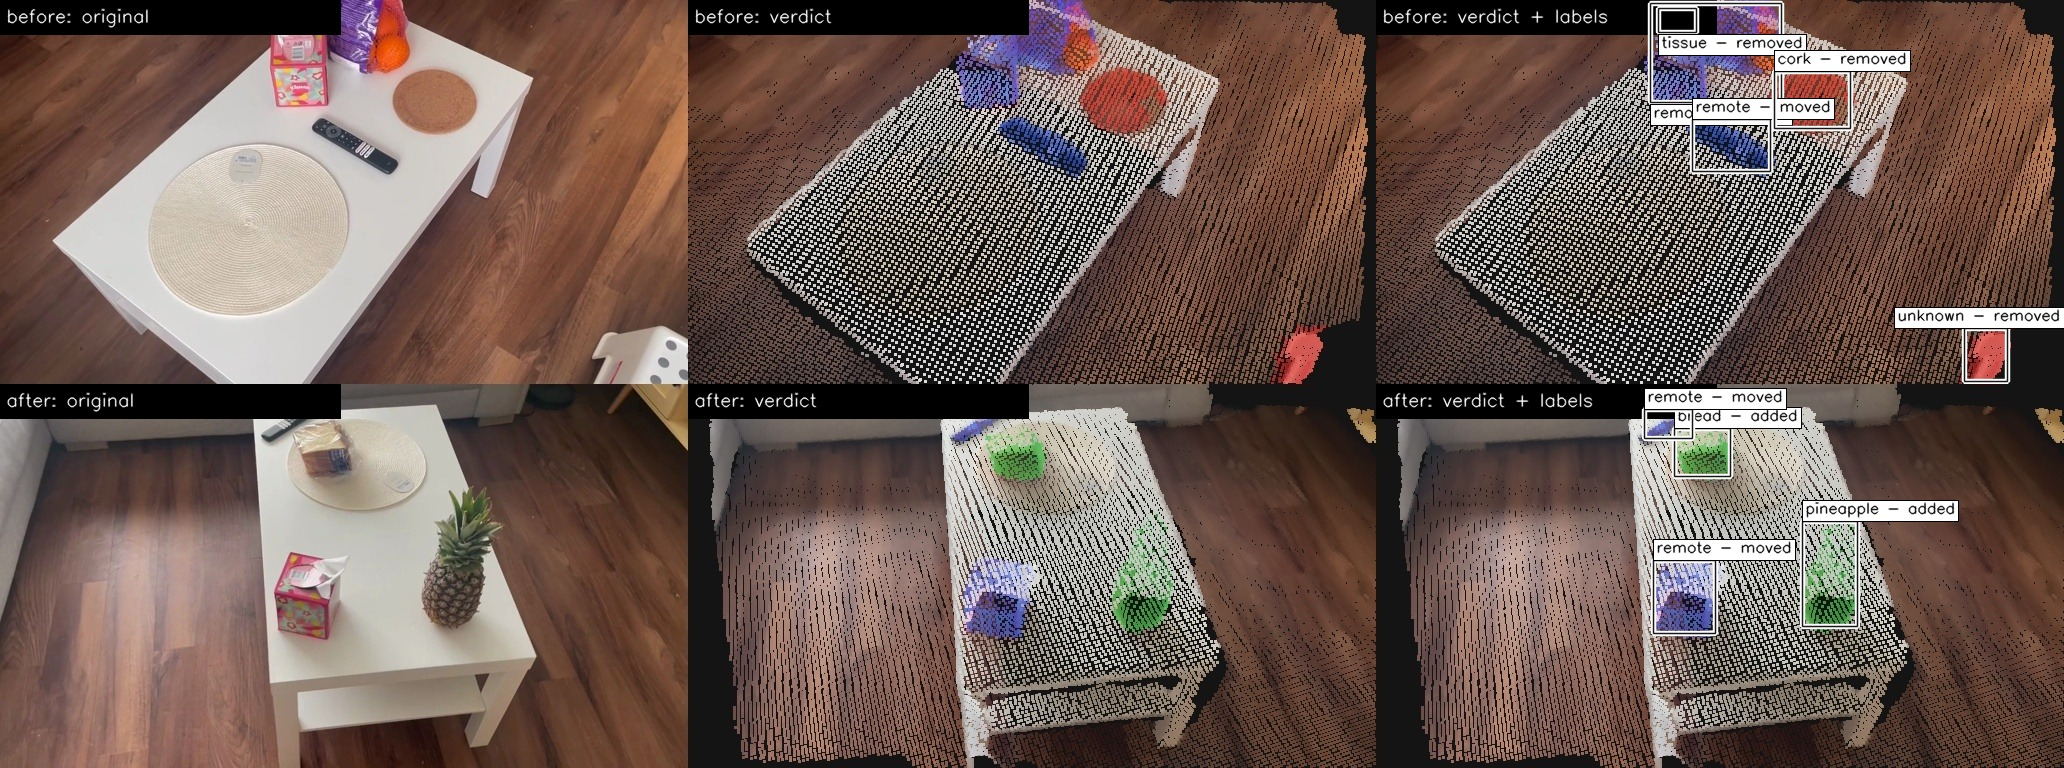
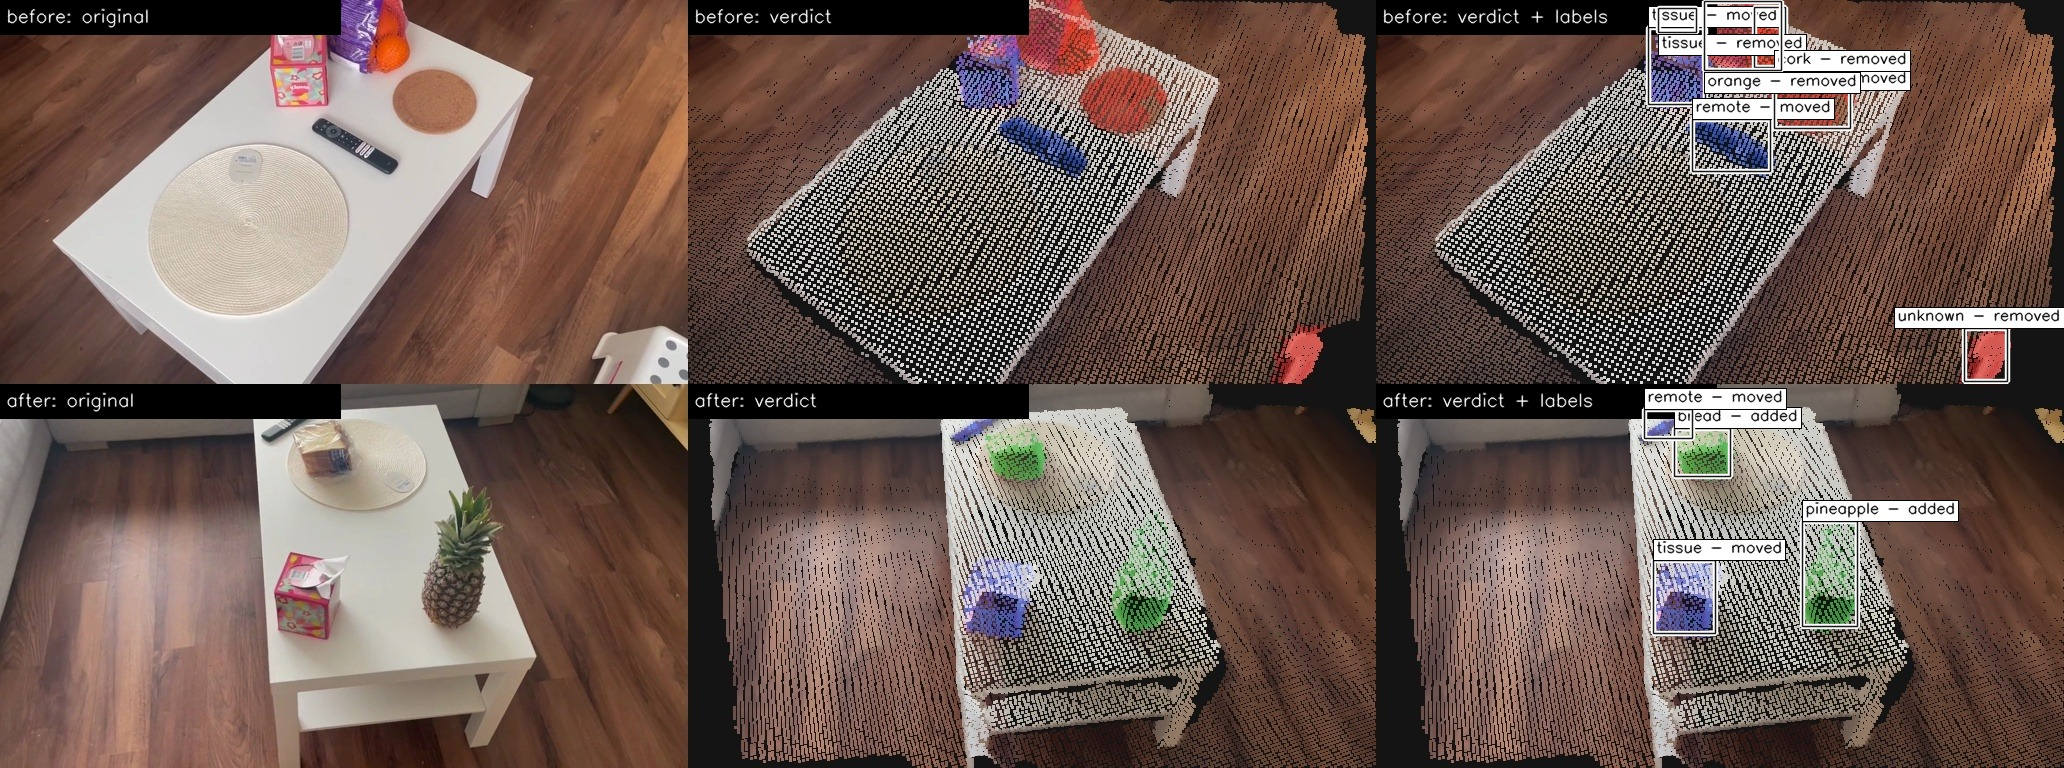
Add change-detection pipeline with VLM labels, results and docs

Changed region(s): [[0.7752, 0.0, 0.9302, 0.1875], [0.4651, 0.0, 0.5581, 0.0938], [0.8062, 0.6875, 0.8682, 0.7188]]

diff --git a/pipeline/match_changes.py b/pipeline/match_changes.py
@@ -12,7 +12,7 @@ from appearance import lab_ab
 from attach import project
 from change_regions import change_regions
 from compare import COLORS, aligned_points, load_video
-from config import ABSORB_MAX_RATIO, CHECK_FRAME, CHROMA_BINS, DINO_MIN, IDENTITY_MIN, MOVE_DISTANCE, OBJECT_MIN_POINTS, OUTPUT, RING_DISTINCT_SHARE, RING_MAX, RING_POINT_SIM, RING_RADIUS, UNIT_FLAG_SHARE, VISIBILITY_TOL, Z_WEAK
+from config import ABSORB_MAX_RATIO, CHECK_FRAME, CHROMA_BINS, DINO_MIN, IDENTITY_MIN, MOVE_DISTANCE, OBJECT_LINK_SIM, OBJECT_MIN_POINTS, OUTPUT, RING_DISTINCT_SHARE, RING_MAX, RING_POINT_SIM, RING_RADIUS, UNIT_FLAG_SHARE, VISIBILITY_TOL, Z_WEAK
 from point_clouds import make_cloud
 from segment import render_check
 
@@ -90,7 +90,8 @@ def build_units(video, evidence, common_points):
         descriptor = describe(video, indices, video["points"])
         ring = surrounding_similarity(video, tree, indices, descriptor["feature"])
         distinct = distinct_share(video, tree, indices)
-        if (distinct >= RING_DISTINCT_SHARE) if RING_MODE == "points" else (ring <= RING_MAX):
+        both_evidence = evidence["geometric"][indices].mean() >= UNIT_FLAG_SHARE and z >= Z_WEAK  # partly seen through by the other video and clearly different where still matched: an empty footprint is surface present in both videos, so it cannot have both
+        if both_evidence or ((distinct >= RING_DISTINCT_SHARE) if RING_MODE == "points" else (ring <= RING_MAX)):
             units.append({"id": int(u), "indices": indices, "n": len(indices), "centroid": common_points[indices].mean(axis=0),
                           "flagged": flagged, "geometric": evidence["geometric"][indices].mean(), "z": z, "ring": ring, "distinct": distinct, **descriptor})
     return units
@@ -138,6 +139,31 @@ def render_best_frames(files, frames, out_path):
     cv2.imwrite(str(out_path), np.vstack(rows))
 
 
+def split_moved(units, verdict, pairs, videos, common, evidence):
+    """For every moved pair, split off the points of each unit that have no counterpart in its partner (no partner point with feature cosine of at least OBJECT_LINK_SIM): when segmentation merged two touching objects and only one of them moved, the other part is really removed (before) or added (after). A leftover smaller than OBJECT_MIN_POINTS stays with the moved unit. Edits units and verdict in place."""
+    original = {side: [u["indices"] for u in units[side]] for side in units}
+    next_id = {side: max([u["id"] for u in units[side]], default=0) + 1 for side in units}
+    for i, j in pairs:
+        for side, k, other, l in (("before", i, "after", j), ("after", j, "before", i)):
+            mine, theirs = original[side][k], original[other][l]
+            f = videos[side]["features"][mine]
+            g = videos[other]["features"][theirs]
+            f = f / np.maximum(np.linalg.norm(f, axis=1, keepdims=True), 1e-9)
+            g = g / np.maximum(np.linalg.norm(g, axis=1, keepdims=True), 1e-9)
+            best = np.concatenate([(f[a:a + 2000] @ g.T).max(axis=1) for a in range(0, len(f), 2000)])
+            leftover = mine[best < OBJECT_LINK_SIM]
+            if len(leftover) < OBJECT_MIN_POINTS or len(leftover) == len(mine):
+                continue
+            unit = units[side][k]
+            kept = mine[best >= OBJECT_LINK_SIM]
+            unit.update({"indices": kept, "n": len(kept), "centroid": common[side][kept].mean(axis=0), **describe(videos[side], kept, videos[side]["points"])})
+            units[side].append({"id": next_id[side], "indices": leftover, "n": len(leftover), "centroid": common[side][leftover].mean(axis=0),
+                                "flagged": evidence[side]["changed"][leftover].mean(), "geometric": evidence[side]["geometric"][leftover].mean(), "z": unit["z"],
+                                "ring": 0.0, "distinct": 1.0, **describe(videos[side], leftover, videos[side]["points"])})
+            verdict[side].append("removed" if side == "before" else "added")
+            next_id[side] += 1
+
+
 def export_verdicts(before, after, out_dir):
     """Label every changed unit moved (matched pair), removed (unmatched before) or added (unmatched after), write verdict clouds (grey, and true colour with the changed units in vivid blue/green/red) with check images (the overlay shown at each video's best frame), and print the decisions."""
     after_in_before, before_in_after = aligned_points(before, after)
@@ -150,6 +176,8 @@ def export_verdicts(before, after, out_dir):
     partner = {"before": {i: j for i, j in pairs}, "after": {j: i for i, j in pairs}}
     for i, j in pairs:
         verdict["before"][i] = verdict["after"][j] = "moved"
+    split_moved(units, verdict, pairs, {"before": before, "after": after}, {"before": before["points"], "after": after_in_before}, evidence)
+    score = np.pad(score, ((0, len(units["before"]) - score.shape[0]), (0, len(units["after"]) - score.shape[1])))  # split-off parts have no match score
 
     files, overlay_files, frames = {}, {}, {}
     records = {"before": [], "after": []}

diff --git a/pipeline/label_objects.py b/pipeline/label_objects.py
@@ -116,8 +116,9 @@ def annotate_all():
     diagnose = OUTPUT / "diagnose"
     records = json.loads((diagnose / "verdicts.json").read_text())
     plain = diagnose / "verdict_colour_best_frames_plain.jpg"
-    if not plain.exists():  # keep the unlabelled picture, so this can be rerun
-        (diagnose / "verdict_colour_best_frames.jpg").rename(plain)
+    fresh = diagnose / "verdict_colour_best_frames.jpg"
+    if fresh.exists():  # a new picture from step 8 replaces the kept one; without one, the kept picture is reused so this can be rerun
+        fresh.replace(plain)
     image = cv2.imread(str(plain))
     rows = []
     for row, name in enumerate(VIDEOS):

diff --git a/space/app.py b/space/app.py
@@ -18,9 +18,13 @@ LIVE_NOTE = (
 )
 
 
+FIRST = ("dining_table", "scene_diff_living_room", "desk")  # shown first, in this order; the rest follow alphabetically
+
+
 def scene_names():
-    """Return the scene folder names under examples/."""
-    return sorted(p.name for p in EXAMPLES.iterdir() if p.is_dir())
+    """Return the scene folder names under examples/, the FIRST ones leading."""
+    names = sorted(p.name for p in EXAMPLES.iterdir() if p.is_dir())
+    return [n for n in FIRST if n in names] + [n for n in names if n not in FIRST]
 
 
 def side_records(records, side):

diff --git a/README.md b/README.md
@@ -9,29 +9,7 @@ Compares two phone videos of the same area and finds objects that were **moved**
 - **Eight scenes.** Two are my own phone recordings (`desk`, `dining_table`). The other six (`scene_diff_*`) come from the public [SceneDiff benchmark](https://huggingface.co/datasets/yuqun/SceneDiff) (Wu et al., ECCV 2026, MIT licence), added to check the pipeline on videos I did not film. I used six sequence pairs, re-encoded with metadata removed. The full dataset is not included.
 - Each image, left to right: the original frame, the verdict, and the verdict with labels. Before on top, after below. Blue = moved, green = added, red = removed; unchanged points keep their true colours.
 
-![desk](docs/desk.jpg)
-![scene_diff_living_room](docs/scene_diff_living_room.jpg)
-
-- Each scene also gets a plain-English change list (`changes.txt`). For `desk`:
-  - A massager was removed.
-  - A bottle was added.
-  - A pencil was added.
-
-- All 8 scenes, with the labels the vision-language model gave (m / r / a = moved / removed / added). Expected counts are hand-read from the videos.
-
-| Scene | Expected m / r / a | Found m / r / a | Moved | Removed | Added |
-|---|---|---|---|---|---|
-| desk | 1 / 1 / 2 | 0 / 1 / 2 | - | massager | bottle, pencil |
-| dining_table | 3 / 0 / 2 | 2 / 0 / 3 | teddy, tissue | - | clock, staircase, water |
-| scene_diff_cabinet | 0 / 1 / 1 | 0 / 1 / 1 | - | bottle | coconut |
-| scene_diff_coffee_table | 1 / 1 / 0 | 1 / 1 / 0 | coffee | cup | - |
-| scene_diff_glass_table | 1 / 1 / 1 | 1 / 2 / 2 | cup | glass, pen | candy, cup |
-| scene_diff_living_room | 2 / 2 / 2 | 2 / 3 / 2 | remote, remote | cork, tissue, unknown | bread, pineapple |
-| scene_diff_living_room_2 | 0 / 1 / 1 | 0 / 1 / 1 | - | scale | bag |
-| scene_diff_workstation | 0 / 1 / 2 | 0 / 3 / 3 | - | coca, water, window | laptop, mouse, unknown |
-
-- Counts match on 3 of 8 scenes and are within one on 2 more. The labels are mostly right ("mouse", "bottle", "pineapple", "remote"); a few are off ("staircase", "window", "coca"), since the model answers with a single word.
-- All 8 scenes are shown at the end of this page.
+- Examples are shown at the bottom of this page.
 
 ## How it works
 
@@ -108,18 +86,9 @@ python pipeline/main.py before.mp4 after.mp4 --name my_scene
 
 ## All example results
 
-- Same layout in every image, left to right: the original frame, the verdict, and the verdict with labels. Before on top, after below. Blue = moved, green = added, red = removed.
 - Labels come from a small vision-language model and are sometimes wrong. The change list under each image is its plain-English output.
 
-### desk (own recording)
-
-![desk](docs/desk.jpg)
-
-- A massager was removed.
-- A bottle was added.
-- A pencil was added.
-
-### dining_table (own recording)
+### Dining table
 
 ![dining_table](docs/dining_table.jpg)
 
@@ -129,21 +98,43 @@ python pipeline/main.py before.mp4 after.mp4 --name my_scene
 - A clock was added.
 - A staircase was added.
 
-### scene_diff_cabinet (SceneDiff)
+### Living room
+
+![scene_diff_living_room](docs/scene_diff_living_room.jpg)
+
+- The tissue was moved.
+- An unidentified object was removed.
+- An orange was removed.
+- The remote was moved.
+- A tissue was removed.
+- A cork was removed.
+- An orange was removed.
+- A pineapple was added.
+- A bread was added.
+
+### Desk
+
+![desk](docs/desk.jpg)
+
+- A massager was removed.
+- A bottle was added.
+- A pencil was added.
+
+### Cabinet
 
 ![scene_diff_cabinet](docs/scene_diff_cabinet.jpg)
 
 - A bottle was removed.
 - A coconut was added.
 
-### scene_diff_coffee_table (SceneDiff)
+### Coffee table
 
 ![scene_diff_coffee_table](docs/scene_diff_coffee_table.jpg)
 
 - A cup was removed.
 - The coffee was moved.
 
-### scene_diff_glass_table (SceneDiff)
+### Glass table
 
 ![scene_diff_glass_table](docs/scene_diff_glass_table.jpg)
 
@@ -153,26 +144,14 @@ python pipeline/main.py before.mp4 after.mp4 --name my_scene
 - A cup was added.
 - A candy was added.
 
-### scene_diff_living_room (SceneDiff)
-
-![scene_diff_living_room](docs/scene_diff_living_room.jpg)
-
-- The remote was moved.
-- An unidentified object was removed.
-- The remote was moved.
-- A tissue was removed.
-- A cork was removed.
-- A pineapple was added.
-- A bread was added.
-
-### scene_diff_living_room_2 (SceneDiff)
+### Living room 2
 
 ![scene_diff_living_room_2](docs/scene_diff_living_room_2.jpg)
 
 - A scale was removed.
 - A bag was added.
 
-### scene_diff_workstation (SceneDiff)
+### Workstation
 
 ![scene_diff_workstation](docs/scene_diff_workstation.jpg)
 
